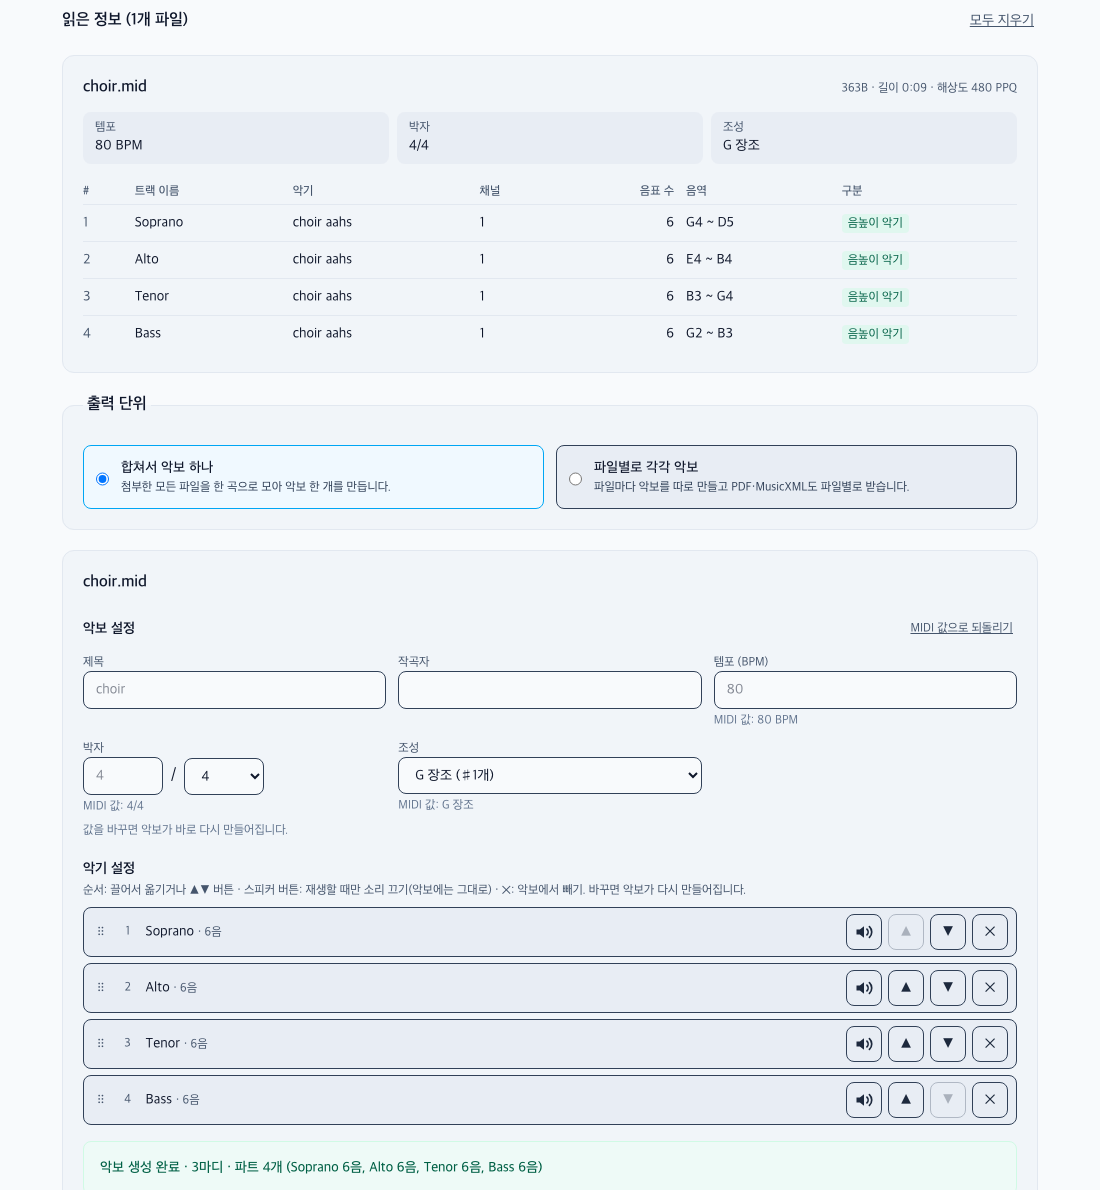
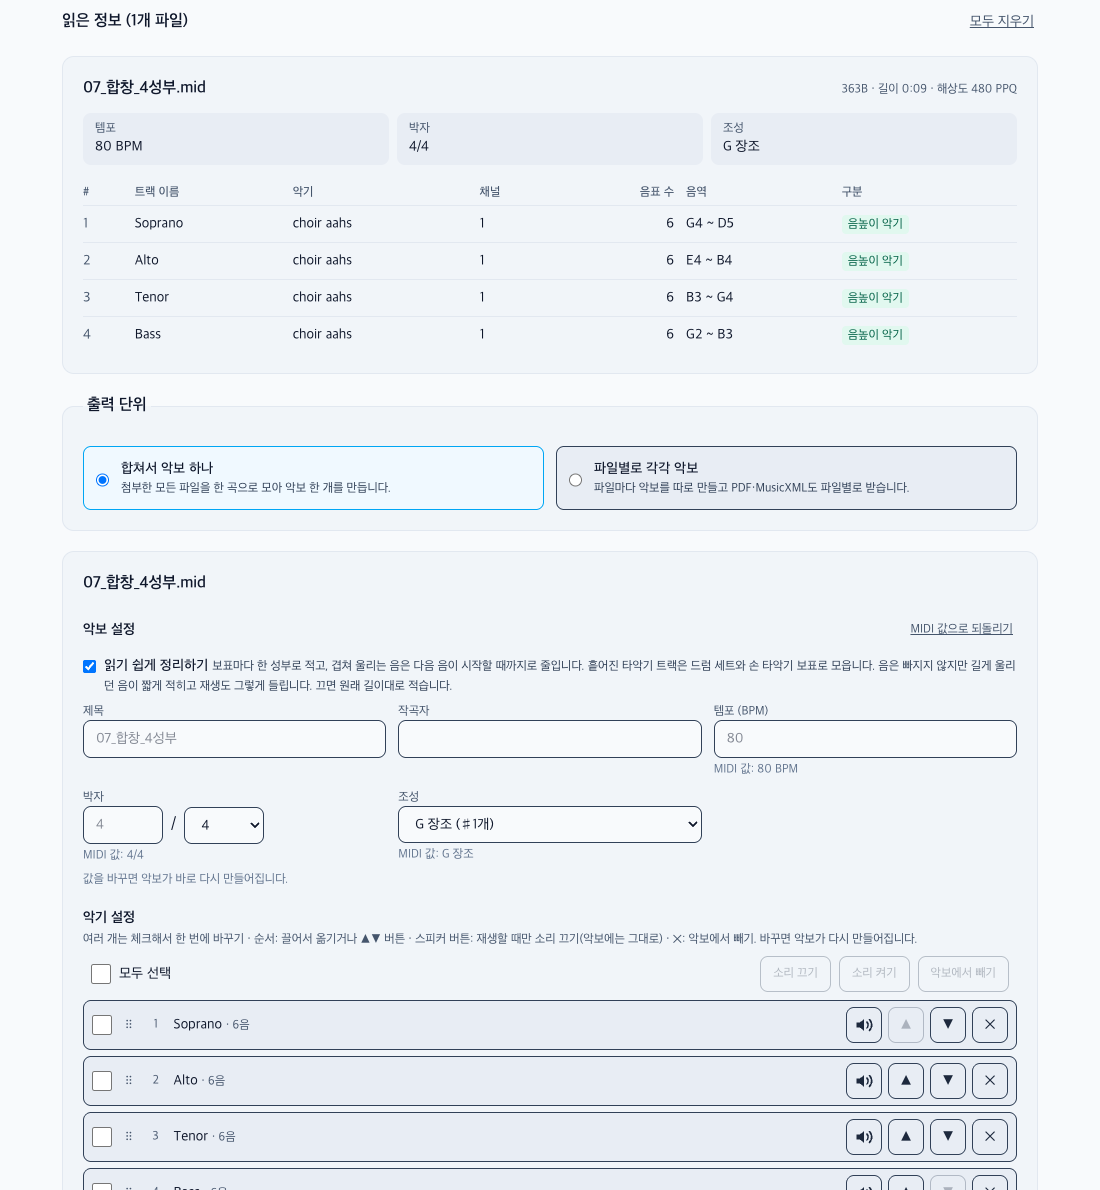
SoundStaff 소개 페이지 본문을 앱 1.39.1 기준으로 정리하고 화면 캡처 교체

diff --git a/insights/soundstaff.html b/insights/soundstaff.html
@@ -192,7 +192,7 @@
 
     <section class="card">
       <h2>무엇을 하는 앱인가요</h2>
-      <p>MIDI 파일을 끌어다 놓으면 바로 악보로 바꿔 줘요. 악기별로 악보를 나누고, 박자·조성·템포를 고칠 수 있고, 만든 악보를 재생해서 들어 볼 수 있어요. 결과는 PDF와 MusicXML(뮤직엑스엠엘, 악보 프로그램끼리 주고받는 표준 파일)로 저장하고, Finale(피날레) 같은 악보 편집 프로그램에서 열어 고쳐 쓸 수 있어요.</p>
+      <p>MIDI 파일을 끌어다 놓으면 바로 악보로 바꿔 줘요. 박자·조성·템포를 고치고, 만든 악보를 재생해서 들어 볼 수 있어요. 결과는 PDF와 MusicXML(뮤직엑스엠엘, 악보 프로그램끼리 주고받는 표준 파일)로 저장하고, MuseScore(뮤즈스코어, 무료)나 Finale(피날레) 같은 악보 편집 프로그램에서 열어 고쳐 쓸 수 있어요.</p>
       <p>PC에서는 음원(mp3, wav 등)도 올릴 수 있어요. 소리에서 음을 찾아 악보 초안을 만들어 줍니다. 아래 "음원은 어디까지 맞나요"를 꼭 읽어 주세요.</p>
       <ul>
         <li>파일은 서버로 전송되지 않고 내 컴퓨터(브라우저) 안에서만 처리돼요.</li>
@@ -201,21 +201,34 @@
     </section>
 
     <section class="card">
+      <h2>연주자가 보기 편한 악보</h2>
+      <ul>
+        <li><strong>악기에 맞는 표기:</strong> 기타·베이스는 관례대로 한 옥타브 올려 적고(음자리표에 8 표시), 피아노는 두 보표에 양손을 나눠 적어요. 아주 높거나 낮은 음은 8va 같은 점선을 써서 덧줄을 줄여요.</li>
+        <li><strong>드럼과 타악기:</strong> 타악기 보표로 적고, 빠른 연타는 롤 기호로 표시해요.</li>
+        <li><strong>3연음:</strong> 셋잇단 8분·4분음표를 알아보고 그대로 적어요.</li>
+        <li><strong>한 줄에 4마디:</strong> 화면과 PDF를 4마디씩 보여 주고, 쪽마다 악기 이름과 곡 제목을 표시해요.</li>
+        <li><strong>파트보 한 번에 받기:</strong> 악기마다 따로 만든 PDF와 MusicXML을 ZIP으로 받아요. 이어지는 쉬는 마디는 숫자로 묶어요.</li>
+        <li><strong>악기별 재생:</strong> 악기 계열에 맞는 소리로 들어 볼 수 있어요. 피아노 녹음 소리 말고는 컴퓨터가 만든 소리예요.</li>
+      </ul>
+      <p class="muted">손 나누기나 3연음처럼 MIDI에 정보가 없는 부분은 앱이 추정해요. 연주에 쓰기 전에 한 번 확인해 주세요. [읽기 쉽게 정리하기]를 끄면 음 길이를 원본에 가깝게 적어요.</p>
+    </section>
+
+    <section class="card">
       <h2>사용 방법</h2>
       <h3>1. 파일 올리기</h3>
       <p>MIDI 파일(.mid, .midi)을 끌어다 놓거나 [파일 선택]을 눌러요. 음원 분석은 오른쪽 카드에서 하며 PC에서만 쓸 수 있어요.</p>
-      <img src="../images/soundstaff/01-start.png" alt="SoundStaff 첫 화면: 사용 방법 안내와 MIDI·음원 파일을 올리는 두 개의 카드" width="1100" height="1000" loading="lazy" style="max-width:100%;height:auto;border:1px solid #c8d1dc;border-radius:8px;display:block;margin:12px 0">
+      <img src="../images/soundstaff/01-start.png" alt="SoundStaff 첫 화면: 사용 방법 안내와 MIDI·음원 파일을 올리는 두 개의 카드" width="1100" height="1050" loading="lazy" style="max-width:100%;height:auto;border:1px solid #c8d1dc;border-radius:8px;display:block;margin:12px 0">
 
       <h3>2. 악보 다듬기 (선택)</h3>
       <p>읽은 곡의 템포·박자·조성이 보여요. 제목과 작곡자를 적고, 악기 순서를 바꾸거나 소리를 끄거나 악보에서 뺄 수 있어요. 바꾸면 악보가 바로 다시 만들어집니다.</p>
       <img src="../images/soundstaff/02-settings.png" alt="읽은 곡의 트랙 목록과 악보 설정(제목, 작곡자, 템포, 박자, 조성)과 악기 순서·소리 끄기·빼기 버튼" width="1100" height="1190" loading="lazy" style="max-width:100%;height:auto;border:1px solid #c8d1dc;border-radius:8px;display:block;margin:12px 0">
 
       <h3>3. 확인하고 저장</h3>
-      <p>악보를 재생해 들어 보고 확대·축소해서 확인한 뒤, PDF·MusicXML·피아노 MIDI로 저장해요.</p>
-      <img src="../images/soundstaff/03-score.png" alt="악보 미리보기 화면과 PDF·MusicXML·피아노 MIDI 다운로드 버튼" width="1100" height="990" loading="lazy" style="max-width:100%;height:auto;border:1px solid #c8d1dc;border-radius:8px;display:block;margin:12px 0">
+      <p>악보를 재생해 들어 보고 확대·축소해서 확인한 뒤, PDF·MusicXML·피아노 MIDI로 저장해요. 악기가 둘 이상이면 [파트보 ZIP 만들기]로 악기별 악보도 받을 수 있어요.</p>
+      <img src="../images/soundstaff/03-score.png" alt="악보 미리보기 화면과 PDF·MusicXML·피아노 MIDI 다운로드 버튼" width="1100" height="1063" loading="lazy" style="max-width:100%;height:auto;border:1px solid #c8d1dc;border-radius:8px;display:block;margin:12px 0">
 
-      <h3>4. Finale에서 열기</h3>
-      <p>PC의 Finale에서 저장한 MusicXML 파일을 열고, 다른 이름으로 저장하면 Finale 파일(.musx)이 돼요. Finale는 PC에서만 열 수 있으니 폰에서 받았다면 파일을 PC로 옮겨 주세요.</p>
+      <h3>4. 악보 프로그램에서 고치기 (선택)</h3>
+      <p>PC의 악보 프로그램(MuseScore, Finale 등)에서 저장한 MusicXML 파일을 열어 고쳐요. 폰에서 받았다면 파일을 PC로 옮겨 주세요. 프로그램마다 보이는 모습은 조금 다를 수 있어요.</p>
     </section>
 
     <section class="card">
@@ -231,7 +244,8 @@
     <section class="card">
       <h2>이런 분께 맞습니다</h2>
       <ul>
-        <li>MIDI로 만든 곡을 악보로 뽑아 Finale에서 편집하려는 분</li>
+        <li>MIDI로 만든 곡을 악보로 뽑아 연주자에게 나눠 주려는 분</li>
+        <li>MIDI로 만든 곡을 악보 프로그램에서 이어서 편집하려는 분</li>
         <li>악기 하나로 연주한 음원의 선율을 악보 초안으로 만들고 싶은 분</li>
         <li>파일을 외부 서버에 올리고 싶지 않은 분</li>
       </ul>
@@ -243,7 +257,8 @@
         <li>자동 변환 결과는 정확하지 않을 수 있어요. 악보 편집 프로그램에서 확인하고 고쳐 주세요.</li>
         <li>사용 권한이 있는 파일만 올려 주세요. 무료 요금제로 만든 곡은 비상업적 용도로만 쓸 수 있는 경우가 있어요.</li>
         <li>폰·태블릿에서는 MIDI 변환만 쓸 수 있고, 음원 분석은 PC에서 이용해 주세요.</li>
-        <li>음원 분석은 악기를 구분하지 못해요.</li>
+        <li>음원 분석은 악기를 구분하지 못하고 타악기는 옮기지 않아요.</li>
+        <li>16분 셋잇단음표나 5연음은 가까운 자리로 맞춰 적어요.</li>
       </ul>
     </section>
 

diff --git a/en/insights/soundstaff.html b/en/insights/soundstaff.html
@@ -195,12 +195,25 @@
 
     <section class="card">
       <h2>What is this app?</h2>
-      <p>Drop in a MIDI file and it turns it into sheet music right away. It splits the score by instrument, lets you change the time signature, key, and tempo, and plays the score back so you can listen to it. You can save the result as a PDF or as MusicXML (a standard file format that music notation programs use to exchange scores), then open it in a notation program such as Finale to edit it.</p>
+      <p>Drop in a MIDI file and it turns it into sheet music right away. You can change the time signature, key, and tempo, and play the score back to listen to it. Save the result as a PDF or as MusicXML (a standard file format that music notation programs use to exchange scores), then open it in a notation program such as MuseScore (free) or Finale to edit it.</p>
       <p>On a PC you can also upload audio (mp3, wav, and so on). It finds the notes in the sound and makes a rough draft of the score. Please read "How accurate is audio analysis?" below.</p>
       <ul>
         <li>Your files are never sent to a server. They are processed only inside your own computer (the browser).</li>
         <li>It is free and has no ads, and the source code is open under the MIT License.</li>
       </ul>
+    </section>
+
+    <section class="card">
+      <h2>Scores that are easy to play from</h2>
+      <ul>
+        <li><strong>Notation that fits the instrument:</strong> guitar and bass are written an octave higher, as is customary (with an 8 under the clef), and piano is split into two staves for the two hands. Very high or low passages get 8va-style dashed lines to cut down on ledger lines.</li>
+        <li><strong>Drums and percussion:</strong> written on percussion staves, with fast repeated hits shown as rolls.</li>
+        <li><strong>Triplets:</strong> eighth-note and quarter-note triplets are recognized and written as triplets.</li>
+        <li><strong>Four measures per line:</strong> on screen and in the PDF, with instrument names and the piece title on every page.</li>
+        <li><strong>All parts at once:</strong> download a ZIP with a separate PDF and MusicXML for each instrument. Consecutive rest measures are grouped under a number.</li>
+        <li><strong>Playback by instrument:</strong> each instrument family has its own sound. Apart from the recorded piano, the sounds are computer-generated.</li>
+      </ul>
+      <p class="muted">A MIDI file does not say which hand plays a note, for example, so the app estimates things like hand splits and triplets. Please check the score before performing from it. Turn off [Simplify for reading] to write note lengths closer to the original.</p>
     </section>
 
     <section class="card">
@@ -214,11 +227,11 @@
       <img src="../../images/soundstaff/en/02-settings.png" alt="The track list of the piece, the score settings (title, composer, tempo, time signature, key), and buttons to reorder, mute, or remove each instrument" width="1100" height="1190" loading="lazy" style="max-width:100%;height:auto;border:1px solid #c8d1dc;border-radius:8px;display:block;margin:12px 0">
 
       <h3>3. Check and save</h3>
-      <p>Play the score to hear it, zoom in and out to check it, and then save it as a PDF, MusicXML, or piano MIDI.</p>
+      <p>Play the score to hear it, zoom in and out to check it, and then save it as a PDF, MusicXML, or piano MIDI. With two or more instruments, [Make ZIP of parts] gives you a score for each one.</p>
       <img src="../../images/soundstaff/en/03-score.png" alt="The score preview and the download buttons for PDF, MusicXML, and piano MIDI" width="1100" height="1063" loading="lazy" style="max-width:100%;height:auto;border:1px solid #c8d1dc;border-radius:8px;display:block;margin:12px 0">
 
-      <h3>4. Open it in Finale</h3>
-      <p>On a PC, open the saved MusicXML file in Finale, then save it under a new name to get a Finale file (.musx). Finale only runs on a PC, so if you downloaded the file on a phone, move it to a PC first.</p>
+      <h3>4. Edit in a notation program (optional)</h3>
+      <p>On a computer, open the saved MusicXML file in a notation program such as MuseScore or Finale and edit it. If you downloaded the file on a phone, move it to a computer first. Each program may display the score a little differently.</p>
     </section>
 
     <section class="card">
@@ -234,7 +247,8 @@
     <section class="card">
       <h2>Who is it for?</h2>
       <ul>
-        <li>People who made a piece in MIDI and want to turn it into a score to edit in Finale</li>
+        <li>People who made a piece in MIDI and want to hand out scores to players</li>
+        <li>People who want to keep editing a MIDI piece in a notation program</li>
         <li>People who want a draft score of a melody played on a single instrument in a recording</li>
         <li>People who do not want to upload their files to an outside server</li>
       </ul>
@@ -246,7 +260,8 @@
         <li>Automatic conversion results may not be accurate. Please check and correct them in a notation program.</li>
         <li>Use only files you have the right to use. Songs made on a free plan may be limited to non-commercial use.</li>
         <li>On phones and tablets only MIDI conversion works; please use a PC for audio analysis.</li>
-        <li>Audio analysis cannot tell instruments apart.</li>
+        <li>Audio analysis cannot tell instruments apart and does not transcribe percussion.</li>
+        <li>16th-note triplets and quintuplets are moved to a nearby position.</li>
       </ul>
     </section>
   </main>

diff --git a/en/index.html b/en/index.html
@@ -110,7 +110,7 @@
     <section aria-labelledby="mvp-heading">
       <h2 id="mvp-heading">MVP (Minimum Viable Product)</h2>
       <div class="card-grid">
-        <a class="card-link" href="insights/soundstaff" target="_blank" rel="noopener"><h2>SoundStaff ↗</h2><p class="muted">A free web app that turns MIDI files or audio into sheet music (PDF) and MusicXML. Your files never leave your computer, and you can open the result in Finale.</p></a>
+        <a class="card-link" href="insights/soundstaff" target="_blank" rel="noopener"><h2>SoundStaff ↗</h2><p class="muted">A free web app that turns MIDI files or audio into sheet music (PDF) and MusicXML. Your files never leave your computer, and you can open the result in a notation program.</p></a>
         <a class="card-link" href="insights/paperkeeper" target="_blank" rel="noopener"><h2>PaperKeeper (coming soon) ↗</h2><p class="muted">An Android app that scans pages of a paper book, reads the text, and lets you add notes. The Android version is planned for release in November.</p></a>
         <a class="card-link" href="insights/e-contract" target="_blank" rel="noopener"><h2>E-Contract ↗</h2><p class="muted">E-signatures without a subscription, for people who'd rather not leave their contracts on someone else's platform. Install it on your own server to keep your contracts for good. The other party just signs on their phone from a single link.</p></a>
         <a class="card-link" href="insights/lease-estimate" target="_blank" rel="noopener"><h2>Get a Lease Estimate (in progress) ↗</h2><p class="muted">Build a lease estimate from the vehicle, term, and interest rate. It's still in development and only available in Korean.</p></a>

diff --git a/index.html b/index.html
@@ -324,7 +324,7 @@
                 <div class="insight-grid">
                     <a class="insight-card" href="insights/soundstaff" target="_blank" rel="noopener">
                         <h3>SoundStaff <span class="insight-link-cue" aria-hidden="true">↗</span></h3>
-                        <p>MIDI 파일이나 음원을 악보(PDF)와 MusicXML로 바꿔 주는 무료 웹앱이에요. 파일은 내 컴퓨터를 떠나지 않고, Finale에서 열어 고칠 수 있어요.</p>
+                        <p>MIDI 파일이나 음원을 악보(PDF)와 MusicXML로 바꿔 주는 무료 웹앱이에요. 파일은 내 컴퓨터를 떠나지 않고, 악보 프로그램에서 열어 고칠 수 있어요.</p>
                     </a>
                     <a class="insight-card" href="insights/paperkeeper" target="_blank" rel="noopener">
                         <h3>PaperKeeper (출시 예정) <span class="insight-link-cue" aria-hidden="true">↗</span></h3>
@@ -697,7 +697,7 @@
     <!-- FOOTER -->
     <!-- ========================= -->
 
-    <div class="container page-meta">작성자 <a href="/about">이혁</a> · 작성일 <time datetime="2026-09-18">2026.09.18</time> · 최종 수정일 <time datetime="2026-11-08">2026.11.08</time></div>
+    <div class="container page-meta">작성자 <a href="/about">이혁</a> · 작성일 <time datetime="2026-09-18">2026.09.18</time> · 최종 수정일 <time datetime="2026-11-25">2026.11.25</time></div>
 
     <footer>
 

diff --git a/docs/spec-v1.0.md b/docs/spec-v1.0.md
@@ -342,3 +342,4 @@ CLAUDE.md                        Claude 작업 규칙
 | v1.0 | 2026-11-25 08:10 | 영문 소개 페이지 `en/insights/soundstaff.html`의 화면 캡처 3장을 앱 영문 화면(1.23.0, 시험용 합창 MIDI)으로 바꾸고 `images/soundstaff/en/`에 두었다. "캡처는 한글 화면"이라는 문장은 뺐다. 한글 페이지의 캡처는 그대로다. **미확인:** 브라우저에서 본 페이지 모양. (2026-11-25 08:10) |
 | v1.0 | 2026-11-25 08:47 | 구글 Search Console의 "적절한 표준 태그가 포함된 대체 페이지"(18개) 조치. canonical·sitemap은 `.html` 주소를 가리키는데 서버는 그 주소를 확장자 없는 주소로 리디렉션했고, 없는 주소(`/api/...`)는 메인 화면을 200으로 돌려줬다. 주소 표기를 확장자 없는 형태로 통일하고 `404.html`을 추가했다. **미확인:** 푸시 후 운영 서버의 404 응답과 canonical, 3장의 GitHub Pages 설명과 달리 응답은 Cloudflare에서 오는 점. (2026-11-25 08:47) |
 | v1.0 | 2026-11-25 14:03 | 영문 소개 페이지 `en/insights/soundstaff.html`의 화면 캡처 3장을 앱 1.39.0 영문 화면(로컬에서 촬영, 시험용 합창 MIDI)으로 바꿨다. **미확인:** 앱 1.39.0은 아직 배포 전이고, 본문 4단계 제목 "Open it in Finale" 등 Finale 기준 설명은 그대로다. (2026-11-25 14:03) |
+| v1.0 | 2026-11-25 14:11 | SoundStaff 소개 페이지(한글·영문) 본문을 앱 1.39.1 기준으로 정리했다: "연주자가 보기 편한 악보" 절 추가(악기별 표기, 타악기, 3연음, 한 줄 4마디, 파트보 ZIP, 악기별 재생), Finale 전용 설명을 악보 프로그램(MuseScore·Finale 등) 설명으로 바꿈, 캡처 6장을 운영 화면으로 교체, 메인 카드와 `llms.txt` 문구 수정. **미확인:** 실제 악보 프로그램에서 MusicXML 열기. (2026-11-25 14:11) |
